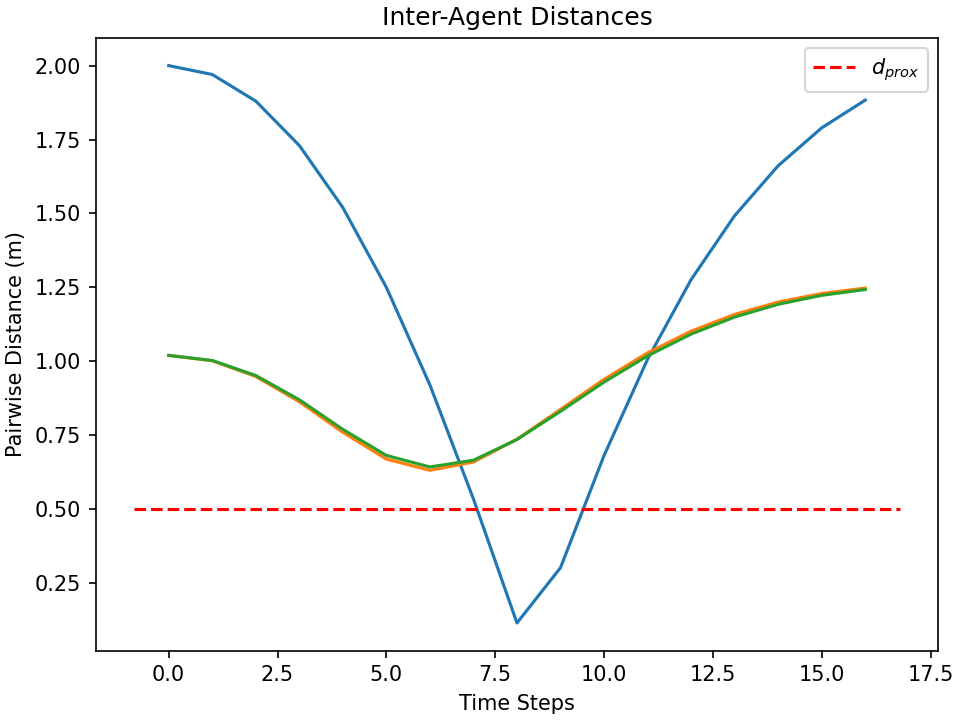
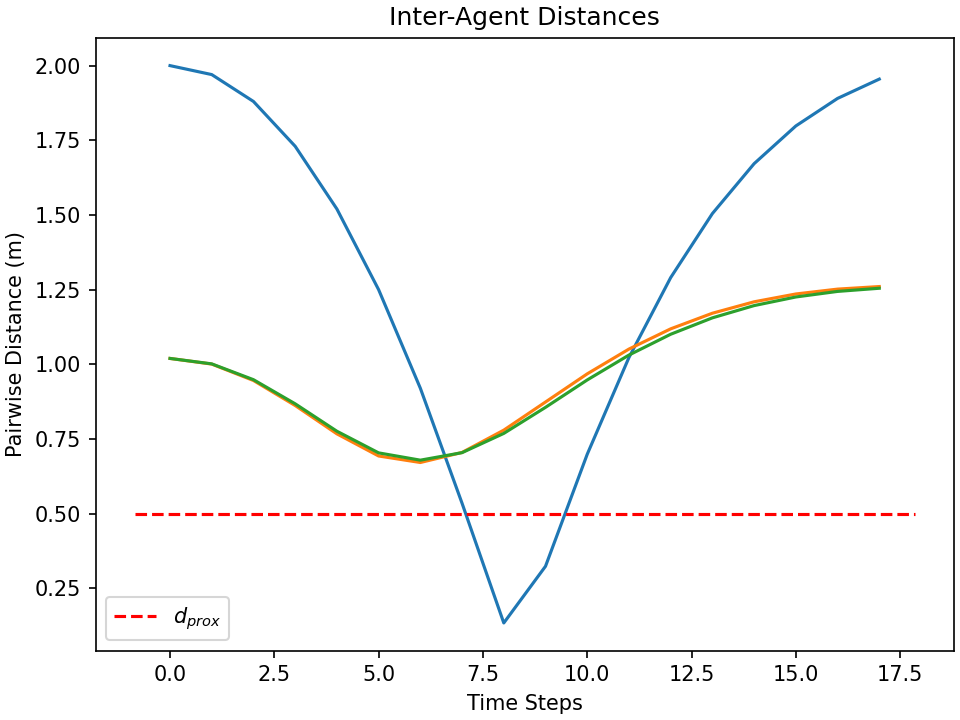
adding Monte Carlo simulations

diff --git a/distributed_ADMM/main.py b/distributed_ADMM/main.py
@@ -7,6 +7,12 @@ import cvxpy as cp
 from time import perf_counter
 import sys
 
+import logging
+from pathlib import Path
+import multiprocessing as mp
+from os import getpid
+import os
+from time import strftime
 
 from solvers.util import (
     compute_pairwise_distance_nd_Sym,
@@ -117,8 +123,6 @@ def solve_iteration(n_states, n_inputs, n_agents, x0, xr, T, radius, Q, R, Qf):
                     # d[f"opti_{agent_id}"].set_initial(sol_prev.value_variables())
                 
                 sol = d[f"opti_{agent_id}"].solve()
-                # result[f"solution_{0}".format(agent_id)] = sol
-
                 # print(f'paramete xbar has value {sol.value(xbar)}')
                 # print(f'parameter u has value {sol.value(u)}')
                 
@@ -148,7 +152,7 @@ def solve_iteration(n_states, n_inputs, n_agents, x0, xr, T, radius, Q, R, Qf):
         procs += [Process(target=run_worker, args=(i, f_list[f"cost_{i}"], remote))]
         procs[-1].start()
 
-    MAX_ITER = 10
+    MAX_ITER = 5
     solution_list = []
     iter = 0
     for i in range(MAX_ITER):
@@ -176,7 +180,8 @@ def solve_iteration(n_states, n_inputs, n_agents, x0, xr, T, radius, Q, R, Qf):
     return x_trj_converged, u_trj_converged, iter
 
 
-def solve_rhc(n_states, n_inputs, n_agents, x0, xr, T, radius, Q, R, Qf):
+def solve_rhc(n_states, n_inputs, n_agents, x0, xr, T, radius, Q, R, Qf, n_trial=None):
+    centralized = True
     nx = n_states*n_agents
     nu = n_inputs*n_agents
     
@@ -190,7 +195,8 @@ def solve_rhc(n_states, n_inputs, n_agents, x0, xr, T, radius, Q, R, Qf):
     ADMM_iters = []
     obj_history = [np.inf]
     solve_times = []
-    
+    t = 0
+    dt = 0.1
     while not np.all(dpilqr.distance_to_goal(x_curr.flatten(), xr.flatten(), n_agents, n_states, 3) <= 0.1):
         t0 = perf_counter()
         x_trj_converged, u_trj_converged, iter = solve_iteration(n_states, n_inputs, n_agents, x_curr, \
@@ -206,12 +212,25 @@ def solve_rhc(n_states, n_inputs, n_agents, x0, xr, T, radius, Q, R, Qf):
         U_full = np.r_[U_full, u_curr.reshape(1,-1)]
         
         mpc_iter += 1
-        
+        t += dt
         if mpc_iter > 50:
             print('Exiting MPC loops')
+            converged = False
             break
-        
+
     print(f'Final distance to goal is {dpilqr.distance_to_goal(X_full[-1].flatten(), xr.flatten(), n_agents, n_states, 3)}')
+    
+    if np.all(dpilqr.distance_to_goal(X_full[-1].flatten(), xr.flatten(), n_agents, n_states, 3) <= 0.1):
+        converged = True
+    
+    obj_trj = float(objective(X_full.T, U_full.T, u_ref, xr, Q, R, Qf))
+    
+    logging.info(
+    f'{n_trial},'
+    f'{n_agents},{t},{converged},'
+    f'{obj_trj},{T},{dt},{radius},{centralized},{np.mean(solve_times)},{distance_to_goal(X_full[-1].flatten(), xr, n_agents, n_states)},'
+        )
+    
     
     return X_full, U_full, \
             objective(X_full.T, U_full.T, u_ref, xr, Q, R, Qf), \
@@ -219,7 +238,7 @@ def solve_rhc(n_states, n_inputs, n_agents, x0, xr, T, radius, Q, R, Qf):
         
         
         
-def solve_distributed_rhc(ids, n_states, n_inputs, n_agents, x0, xr, T, radius, Q, R, Qf):
+def solve_distributed_rhc(ids, n_states, n_inputs, n_agents, x0, xr, T, radius, Q, R, Qf, n_trial=None):
     
     n_dims = [3]*n_agents
     u_ref = np.array([0, 0, 0]*n_agents)
@@ -236,8 +255,10 @@ def solve_distributed_rhc(ids, n_states, n_inputs, n_agents, x0, xr, T, radius, 
     solve_times = []
     x_curr = x0
     # obj_history = [np.inf]
-    
-    
+    t = 0
+    dt = 0.1
+    converged = False
+    centralized = False
     while not np.all(np.all(dpilqr.distance_to_goal(x_curr.flatten(), xr.flatten(), \
                                                     n_agents, n_states, 3) <= 0.1)):
         # rel_dists = util.compute_pairwise_distance_nd_Sym(x0,x_dims,n_dims)
@@ -290,7 +311,8 @@ def solve_distributed_rhc(ids, n_states, n_inputs, n_agents, x0, xr, T, radius, 
         #         ].T
             
         # obj_history.append(float(objective(X_trj, U_trj, u_ref, xr, Q, R, Qf)))    
-            
+        t += dt
+        
         x_curr = X_dec
         
         X_full = np.r_[X_full, X_dec.reshape(1,-1)]
@@ -302,12 +324,156 @@ def solve_distributed_rhc(ids, n_states, n_inputs, n_agents, x0, xr, T, radius, 
             print(f'Max iters reached; exiting MPC loops')
             break
         
+    if np.all(dpilqr.distance_to_goal(X_full[-1].flatten(), xr.flatten(), n_agents, n_states, 3) <= 0.1):
+        converged = True
+        
     print(f'Final distance to goal is {dpilqr.distance_to_goal(X_full[-1].flatten(), xr.flatten(), n_agents, n_states, 3)}')    
+    
+    obj_trj = float(objective(X_full.T, U_full.T, u_ref, xr, Q, R, Qf))
+    
+    logging.info(
+    f'{n_trial},'
+    f'{n_agents},{t},{converged},'
+    f'{obj_trj},{T},{dt},{radius},{centralized},{np.mean(solve_times)},{distance_to_goal(X_full[-1].flatten(), xr, n_agents, n_states)},'
+        )
     
     return X_full, U_full, objective(X_full.T, U_full.T, u_ref, xr, Q, R, Qf), np.mean(solve_times)
         
-        
+
+def setup_logger():
     
+    # if centralized == True:
+        
+    LOG_PATH = Path(__file__).parent/ "logs"
+    LOG_FILE = LOG_PATH / strftime(
+        "ADMM-mpc-_%m-%d-%y_%H.%M.%S_{getpid()}.csv"
+    )
+    if not LOG_PATH.is_dir():
+        LOG_PATH.mkdir()
+    print(f"Logging results to {LOG_FILE}")
+    logging.basicConfig(filename=LOG_FILE, format="%(message)s", level=logging.INFO)
+    logging.info(
+        "i_trial,n_agents,converged,obj_trj,T,dt,radius,\
+         centralized,t_solve_avg,dist_to_goal"
+    )
+    
+    
+def multi_agent_run(trial, n_states,
+                            n_inputs,
+                            n_agents,
+                            x0,
+                            xr,
+                            T,
+                            radius,
+                            Q,
+                            R,
+                            Qf):
+    """simulation comparing the centralized and decentralized solvers"""
+    
+    if n_agents == 3:
+        x0,xr = util.setup_3_quads()
+        n_dims = [3]*3
+
+    elif n_agents==4:
+        x0, xr=util.setup_4_quads()
+        n_dims=[3]*4
+
+    elif n_agents == 5:
+        x0,xr = util.setup_5_quads()
+        n_dims = [3]*5
+
+    elif n_agents==6:
+        x0, xr=util.setup_6_quads()
+        n_dims= [3]*6
+
+    elif n_agents==7:
+        x0, xr= util.setup_7_quads()
+        n_dims= [3]*7
+
+    elif n_agents==8:
+        x0, xr= util.setup_8_quads()
+        n_dims= [3]*8
+
+    elif n_agents==9:
+        x0, xr= util.setup_9_quads()
+        n_dims= [3]*9
+
+    elif n_agents == 10:
+        x0,xr = util.setup_10_quads()
+        n_dims = [3]*10
+    
+    ids = [100 + i for i in range(n_agents)]
+    
+    Q = np.diag([5., 5., 5., 1., 1., 1.]*n_agents)
+    Qf = Q*500
+    R = 0.1*np.eye(n_agents*n_inputs)
+
+    X_full, U_full, obj, mean_iters, avg_SolveTime = solve_rhc(n_states,
+                                                n_inputs,
+                                                n_agents,
+                                                x0,
+                                                xr,
+                                                T,
+                                                radius,
+                                                Q,
+                                                R,
+                                                Qf,
+                                                trial)
+    X_full, U_full, obj, avg_SolveTime = solve_distributed_rhc(ids,
+                                                            n_states, 
+                                                            n_inputs, 
+                                                            n_agents, 
+                                                            x0, 
+                                                            xr, 
+                                                            T, 
+                                                            radius,
+                                                            Q, 
+                                                            R, 
+                                                            Qf,
+                                                            trial)
+
+
+def monte_carlo_analysis():
+    """Benchmark to evaluate algorithm over many random initial conditions"""
+
+    setup_logger()
+
+    n_trials_iter = range(30)
+
+    n_agents_iter = [3,4,5,6,7,8,9,10]
+    
+
+    radius = 0.5
+    
+    # Change the for loops into multi-processing?
+
+    for n_agents in n_agents_iter:
+        print(f"\tn_agents: {n_agents}")
+        # if n_agents >=5 and n_agents <=8:
+        #     radius = 0.4
+        
+        # if n_agents >8 and n_agents <9:
+        #     radius = 0.45
+
+        # if n_agents >= 9:
+        #     radius = 0.4
+            
+        for i_trial in n_trials_iter:
+            print(f"\t\ttrial: {i_trial}")
+            
+            multi_agent_run(
+                i_trial,n_states,
+                            n_inputs,
+                            n_agents,
+                            x0,
+                            xr,
+                            T,
+                            radius,
+                            Q,
+                            R,
+                            Qf)    
+            
+            
 if __name__ == "__main__":
     
     n_states = 6
@@ -323,55 +489,64 @@ if __name__ == "__main__":
     
     ids = [100 + n for n in range(n_agents)] #Assigning random IDs for agents
     
-    centralized = True
+    centralized = False
+    logging = True
     
-    if centralized:
-        X_full, U_full, obj, mean_iters, avg_SolveTime = solve_rhc(n_states,
-                                                n_inputs,
-                                                n_agents,
-                                                x0,
-                                                xr,
-                                                T,
-                                                radius,
-                                                Q,
-                                                R,
-                                                Qf)
-    else:
+    if not logging:
+    
+        if centralized:
+            X_full, U_full, obj, mean_iters, avg_SolveTime = solve_rhc(n_states,
+                                                    n_inputs,
+                                                    n_agents,
+                                                    x0,
+                                                    xr,
+                                                    T,
+                                                    radius,
+                                                    Q,
+                                                    R,
+                                                    Qf)
+        else:
+            
+            X_full, U_full, obj, avg_SolveTime = solve_distributed_rhc(ids,
+                                                                n_states, 
+                                                                n_inputs, 
+                                                                n_agents, 
+                                                                x0, 
+                                                                xr, 
+                                                                T, 
+                                                                radius,
+                                                                Q, 
+                                                                R, 
+                                                                Qf)
+            
+        print(f'The average solve time is {avg_SolveTime} seconds!')
+    
+        #Plot trajectory
+        plt.figure(dpi=150)
+        dpilqr.plot_solve(X_full, float(obj), xr, x_dims, True, 3)
+        # plt.gca().set_zticks([0.8,1.2], minor=False)
+        plt.legend(plt.gca().get_children()[1:3], ["Start Position", "Goal Position"])
         
-        X_full, U_full, obj, avg_SolveTime = solve_distributed_rhc(ids,
-                                                            n_states, 
-                                                            n_inputs, 
-                                                            n_agents, 
-                                                            x0, 
-                                                            xr, 
-                                                            T, 
-                                                            radius,
-                                                            Q, 
-                                                            R, 
-                                                            Qf)
+        if centralized:
+            plt.savefig('ADMM_mpc(centralized).png')
+        
+        else:
+            plt.savefig('ADMM_mpc(decentralized).png')
+        
+        #Plot pairwise distance
+        plt.figure(dpi=150)
+        dpilqr.plot_pairwise_distances(X_full, x_dims, [3,3,3], radius)
+        
+        if centralized:
+            plt.savefig('Pairwise_distances_ADMM(centralized).png')
+            
+        else:
+            plt.savefig('Pairwise_distances_ADMM(decentralized).png')
         
     
-    print(f'The average solve time is {avg_SolveTime} seconds!')
-    
-    #Plot trajectory
-    plt.figure(dpi=150)
-    dpilqr.plot_solve(X_full, float(obj), xr, x_dims, True, 3)
-    # plt.gca().set_zticks([0.8,1.2], minor=False)
-    plt.legend(plt.gca().get_children()[1:3], ["Start Position", "Goal Position"])
-    
-    if centralized:
-        plt.savefig('ADMM_mpc(centralized).png')
     
     else:
-        plt.savefig('ADMM_mpc(dcentralized).png')
-    
-    #Plot pairwise distance
-    plt.figure(dpi=150)
-    dpilqr.plot_pairwise_distances(X_full, x_dims, [3,3,3], radius)
-    
-    if centralized:
-        plt.savefig('Pairwise_distances_ADMM(centralized).png')
+        monte_carlo_analysis()
         
-    else:
-        plt.savefig('Pairwise_distances_ADMM(decentralized).png')
+
         
